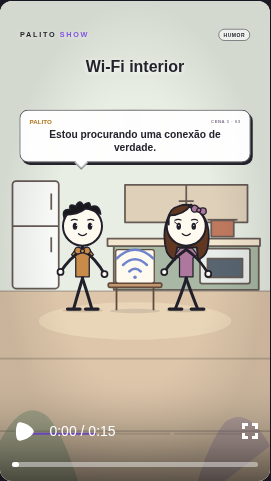
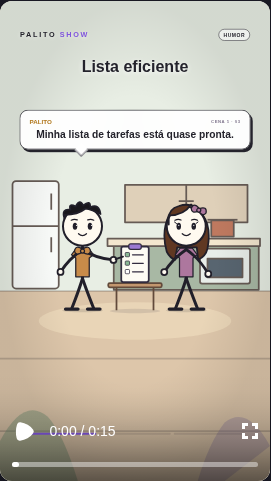
Manter gestos de conversa durante toda a cena com pes fixos

diff --git a/src/Character.tsx b/src/Character.tsx
@@ -4,9 +4,18 @@ import type {Scene} from './model';
 export type CharacterAction=Scene['action']|'parado';
 type CharacterProps={x:number;female:boolean;action:CharacterAction;t:number;active:boolean;mouthLevel?:number;look?:-1|1;depth?:number;outfit?:'casual'|'trabalho'|'casa'|'esporte'};
 
+// Conversation gestures repeat with pauses, while the body and feet stay rooted.
+export function conversationMotion(t:number,active:boolean,mouthLevel?:number){
+ if(!active)return {right:0,left:0};
+ const cycle=((t%132)+132)%132;
+ const pulse=(start:number,length:number)=>cycle<start||cycle>start+length?0:Math.sin(Math.PI*(cycle-start)/length)**2;
+ const emphasis=.7+.3*Math.min(1,Math.max(0,mouthLevel||0));
+ return {right:pulse(6,58)*56*emphasis,left:pulse(66,48)*38*emphasis};
+}
+
 export function Character({x,female,action,t,active,mouthLevel,look=female?-1:1,depth=1,outfit}:CharacterProps){
  const ink='#211f2a',hair=female?'#603822':'#19171c',accent=outfit==='trabalho'?(female?'#327c88':'#4972aa'):outfit==='esporte'?(female?'#dd6b59':'#399a79'):outfit==='casa'?(female?'#ad779e':'#c88b49'):female?'#9137bd':'#f1ba16',face='#fffaf0';
- // Single bounded gesture, then rest. No perpetual bouncing or scene-long sliding.
+ // Opening action plus conversational hands. The body never leans or slides.
  const gesture=Math.sin(Math.PI*Math.min(1,Math.max(0,t)/48));
  const walk=action==='andar'?Math.sin(t*.16)*12*gesture:0;
  const jump=action==='pular'?-Math.sin(Math.PI*Math.min(1,Math.max(0,t-8)/24))*30:0;
@@ -24,6 +33,11 @@ export function Character({x,female,action,t,active,mouthLevel,look=female?-1:1,
  rightHand.y=278+idle+(rightHand.y-278-idle)*gesture;
  leftHand.x=-88+(leftHand.x+88)*gesture;
  leftHand.y=278-idle+(leftHand.y-278+idle)*gesture;
+ const conversation=conversationMotion(t,active,mouthLevel);
+ if(!['pular','comemorar','escorregar'].includes(action)){
+  rightHand.y-=conversation.right;rightHand.x+=conversation.right*.3;
+  leftHand.y-=conversation.left;leftHand.x-=conversation.left*.25;
+ }
  const headTurn=deny,eyeShift=look*(active?4:2);
  const legLeft=-43+walk-slipPhase*10,legRight=45-walk+slipPhase*15;
  const armPath=(side:-1|1,hand:{x:number;y:number})=>`M0 184 Q${side*53} ${220-slipPhase*8} ${hand.x} ${hand.y}`;
@@ -34,14 +48,14 @@ export function Character({x,female,action,t,active,mouthLevel,look=female?-1:1,
    <g fill="none" strokeWidth="12"><path d="M0 174L0 302"/><path d={`M0 300Q-15 349 ${legLeft} 420`}/><path d={`M0 300Q17 350 ${legRight} 420`}/></g>
    <path d={`M${legLeft-25} 422h50`} fill="none" strokeWidth="13"/><path d={`M${legRight-25} 422h50`} fill="none" strokeWidth="13"/>
    {outfit&&<g data-outfit={outfit}><path d="M-24 178L-44 205L-27 218V293H27V218L44 205L24 178Z" fill={accent} strokeWidth="5"/>{outfit==='trabalho'?<path d="M-18 179L0 196L18 179M0 196v72" fill="none" stroke="#fff4dc" strokeWidth="4"/>:outfit==='esporte'?<path d="M-18 187v86m36-86v86" stroke="#fff4dc" strokeWidth="4"/>:null}</g>}
-   {action==='cruzar'?<g fill="none" strokeWidth="11"><path d="M-18 194L-55 226L23 248"/><path d="M18 194L55 224L-22 238"/><circle cx="23" cy="248" r="10" fill={face}/><circle cx="-22" cy="238" r="10" fill={face}/></g>:<g fill="none" strokeWidth="11">
+   {action==='cruzar'&&!active?<g fill="none" strokeWidth="11"><path d="M-18 194L-55 226L23 248"/><path d="M18 194L55 224L-22 238"/><circle cx="23" cy="248" r="10" fill={face}/><circle cx="-22" cy="238" r="10" fill={face}/></g>:<g data-conversation-hands="true" fill="none" strokeWidth="11">
     <path d={armPath(-1,leftHand)}/><path d={armPath(1,rightHand)}/><circle cx={leftHand.x} cy={leftHand.y} r="12" fill={face} strokeWidth="7"/><circle cx={rightHand.x} cy={rightHand.y} r="12" fill={face} strokeWidth="7"/>{action==='apontar'&&<path d={`M${rightHand.x+9} ${rightHand.y-3}l29-10`} strokeWidth="8"/>}
    </g>}
    {!female&&<g transform="translate(0 183)" fill={accent} strokeWidth="5"><path d="M0 0Q-28-20-32 8Q-27 29 0 11Z"/><path d="M0 0Q28-20 32 8Q27 29 0 11Z"/><circle cx="0" cy="7" r="8"/></g>}
    <g transform={`translate(${headTurn} 0)`}>
     <circle cx="0" cy="91" r="78" fill={face} strokeWidth="8"/>
     {female?<><path d="M-70 84Q-80 23-29 10Q25-8 70 39Q43 26 19 4Q-8 47-70 48Z" fill={hair} strokeWidth="7"/><g transform="translate(52 20) rotate(16)" fill={accent} strokeWidth="5"><path d="M0 0Q-29-19-31 9Q-24 29 0 11Z"/><path d="M0 0Q28-19 31 9Q24 29 0 11Z"/><circle cx="0" cy="7" r="8"/></g></>:<path d="M-72 61Q-86 18-48 25Q-58-3-27 12Q-11-21 3 8Q32-16 31 15Q67-1 72 42Q38 24 11 21Q-18 45-72 45Z" fill={hair} strokeWidth="7"/>}
-    <g fill="none" strokeWidth="5"><path d={action==='surpresa'?'M-45 62l25-8M20 54l25 8':action==='triste'?'M-45 69l25-9M20 60l25 9':'M-45 67q12-6 24-1M21 66q12-5 24 1'}/></g>
+    <g fill="none" strokeWidth="5" transform={`translate(0 ${-Math.max(conversation.right,conversation.left)*.055})`}><path d={action==='surpresa'?'M-45 62l25-8M20 54l25 8':action==='triste'?'M-45 69l25-9M20 60l25 9':'M-45 67q12-6 24-1M21 66q12-5 24 1'}/></g>
     {blink?<path d="M-42 90q11 7 22 0M20 90q11 7 22 0" fill="none" strokeWidth="6"/>:<g><ellipse cx="-30" cy="91" rx="9" ry="14" fill={ink} stroke="none"/><ellipse cx="30" cy="91" rx="9" ry="14" fill={ink} stroke="none"/><circle cx={-28+eyeShift} cy="87" r="2.5" fill="#fff" stroke="none"/><circle cx={32+eyeShift} cy="87" r="2.5" fill="#fff" stroke="none"/>{female&&<path d="M-39 80l-8-6M39 80l8-6" fill="none" strokeWidth="4"/>}</g>}
     {mouth>.08?<ellipse cx="0" cy="126" rx={13+mouth*4} ry={4+mouth*12} fill="#532f3b" strokeWidth="4"/>:<path d={action==='triste'?'M-15 131q15-13 30 0':'M-16 121q16 15 32 0'} fill="none" strokeWidth="5"/>}
    </g>

diff --git a/tests/animation.test.ts b/tests/animation.test.ts
@@ -3,7 +3,7 @@ import assert from 'node:assert/strict';
 import React from 'react';
 import {renderToStaticMarkup} from 'react-dom/server';
 import {SupportedStoryObject,type StoryProp} from '../src/SceneProps';
-import {Character} from '../src/Character';
+import {Character,conversationMotion} from '../src/Character';
 
 test('objetos permanecem no mesmo apoio ao longo da cena',()=>{
  for(const kind of ['cafe','celular','presente','lista','halter','pizza','chuva','wifi'] as StoryProp[]){
@@ -19,4 +19,13 @@ test('personagens voltam ao chão após um pulo e não pulam ao comemorar',()=>{
  assert.ok(render('pular',20).includes('translate(330,780)'));
  assert.ok(render('pular',90).includes('translate(330,810)'));
  assert.ok(render('comemorar',20).includes('translate(330,810)'));
+});
+
+test('gestos de conversa continuam em cenas longas com pés fixos e sem inclinação',()=>{
+ for(const female of [false,true]){
+ const render=(t:number)=>renderToStaticMarkup(React.createElement(Character,{x:330,female,action:'falar',t,active:true,mouthLevel:.5,outfit:'trabalho'}));
+ const a=render(132),b=render(166);assert.notEqual(a,b);
+ for(const t of [0,48,90,132,166,270,900]){const html=render(t);assert.ok(html.includes('translate(330,810) scale(1)'));assert.ok(html.includes('M-68 422h50'));const p=conversationMotion(t,true,.5);assert.ok(p.right>=0&&p.right<=56);assert.ok(p.left>=0&&p.left<=38);}
+ }
+ assert.deepEqual(conversationMotion(166,false,.8),{right:0,left:0});
 });

diff --git a/tests/browser/motion.spec.ts b/tests/browser/motion.spec.ts
@@ -1,0 +1,13 @@
+import {test,expect} from '@playwright/test';
+import {generate,initialState,ensurePlan} from '../../src/catalog';
+import {dateKey} from '../../src/model';
+test('conversa continua animada depois da entrada e mantém pés fixos',async({page})=>{
+ const state=initialState();const p=generate('Humor',30,false);p.scenes=p.scenes.map(s=>({...s,speaker:'PALITO',action:'falar'}));state.projects=[p];state.plan[dateKey(new Date())]=p.id;
+ await page.addInitScript(s=>localStorage.setItem('palito-show-v1',JSON.stringify(s)),ensurePlan(state));
+ await page.goto('/');await page.getByRole('button',{name:'Visualizar animação',exact:false}).click();
+ const svg=page.locator('[data-testid=video-preview] svg').first();await expect.poll(async()=>Number(await svg.getAttribute('data-frame')),{timeout:12000}).toBeGreaterThan(140);
+ const arms=page.locator('[data-testid=video-preview] [data-character="PALITO"] [data-conversation-hands]');
+ const before=await arms.innerHTML();await expect.poll(()=>arms.innerHTML()).not.toBe(before);
+ await expect(page.locator('[data-testid=video-preview] [data-character="PALITO"] > g').first()).toHaveAttribute('transform','translate(330,810) scale(1)');
+ await page.getByTestId('video-preview').screenshot({path:'examples/gesto-conversa.png'});
+});
